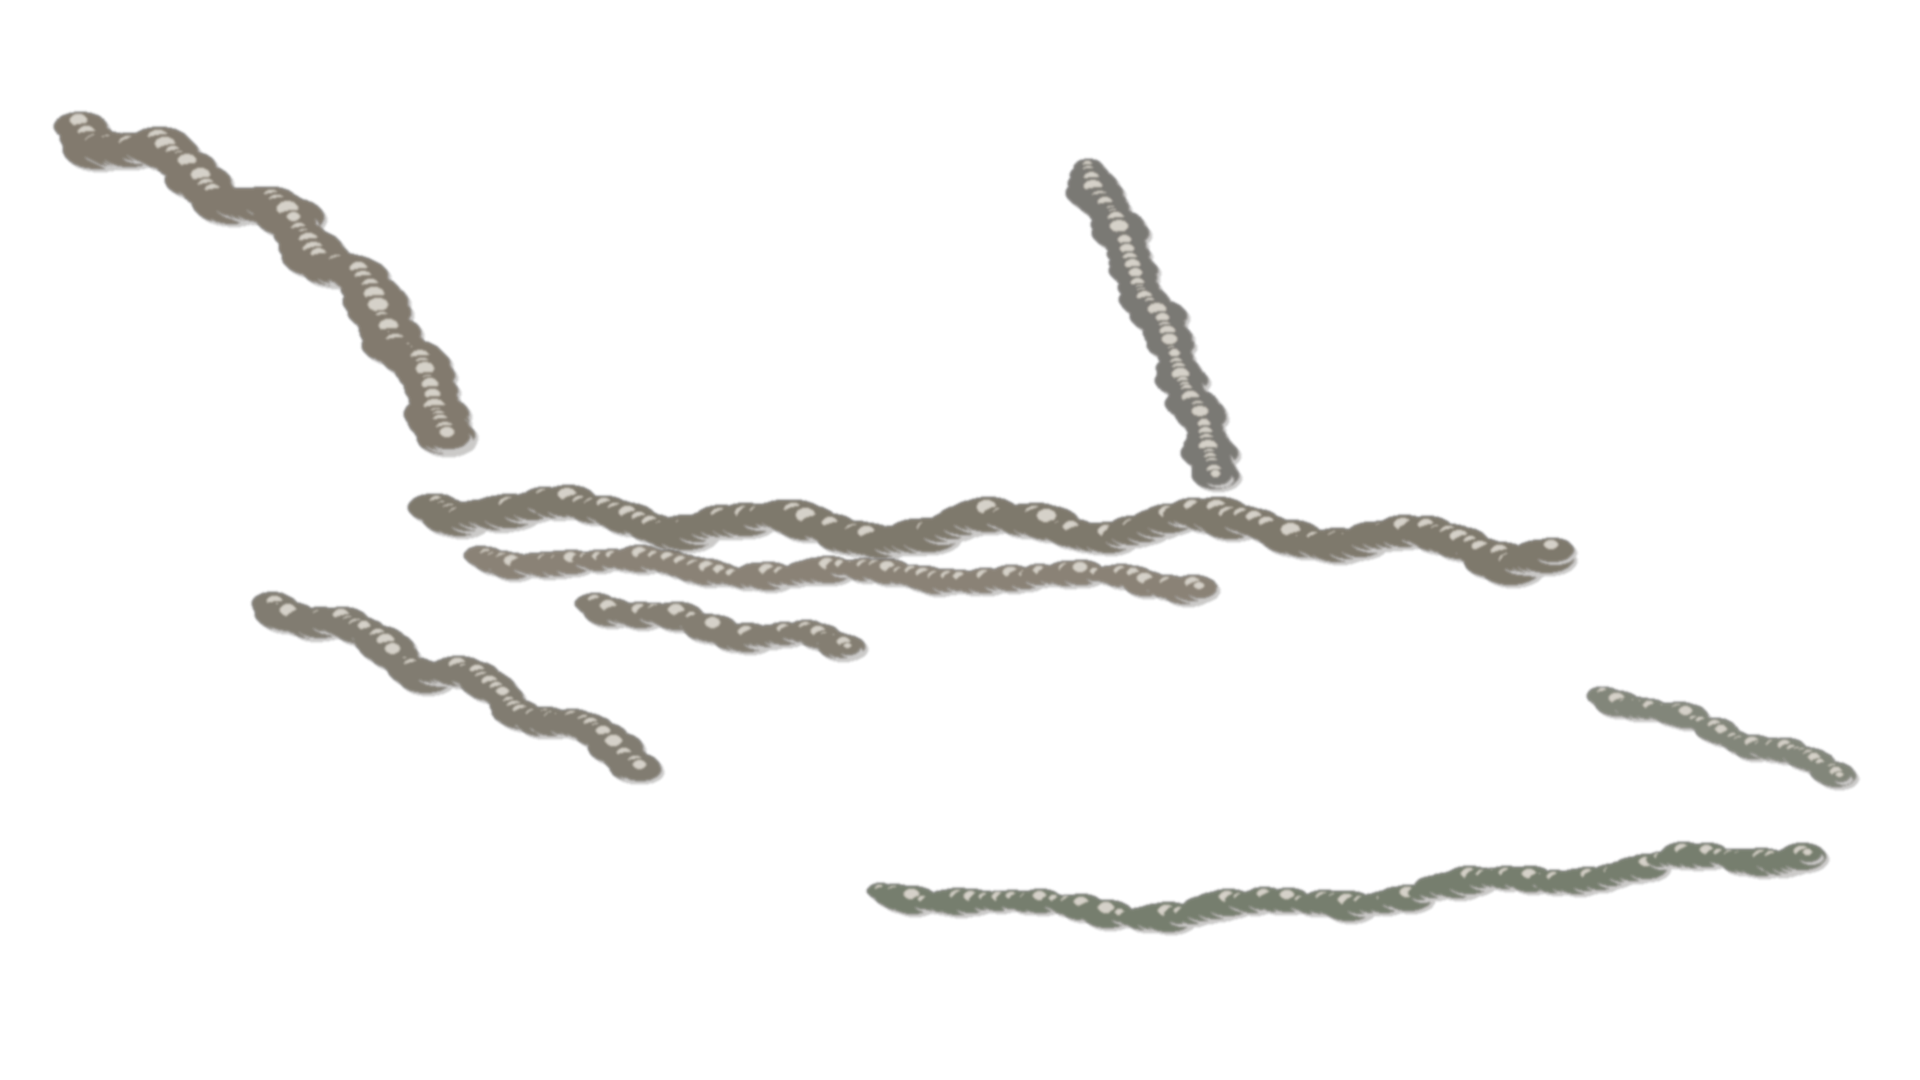
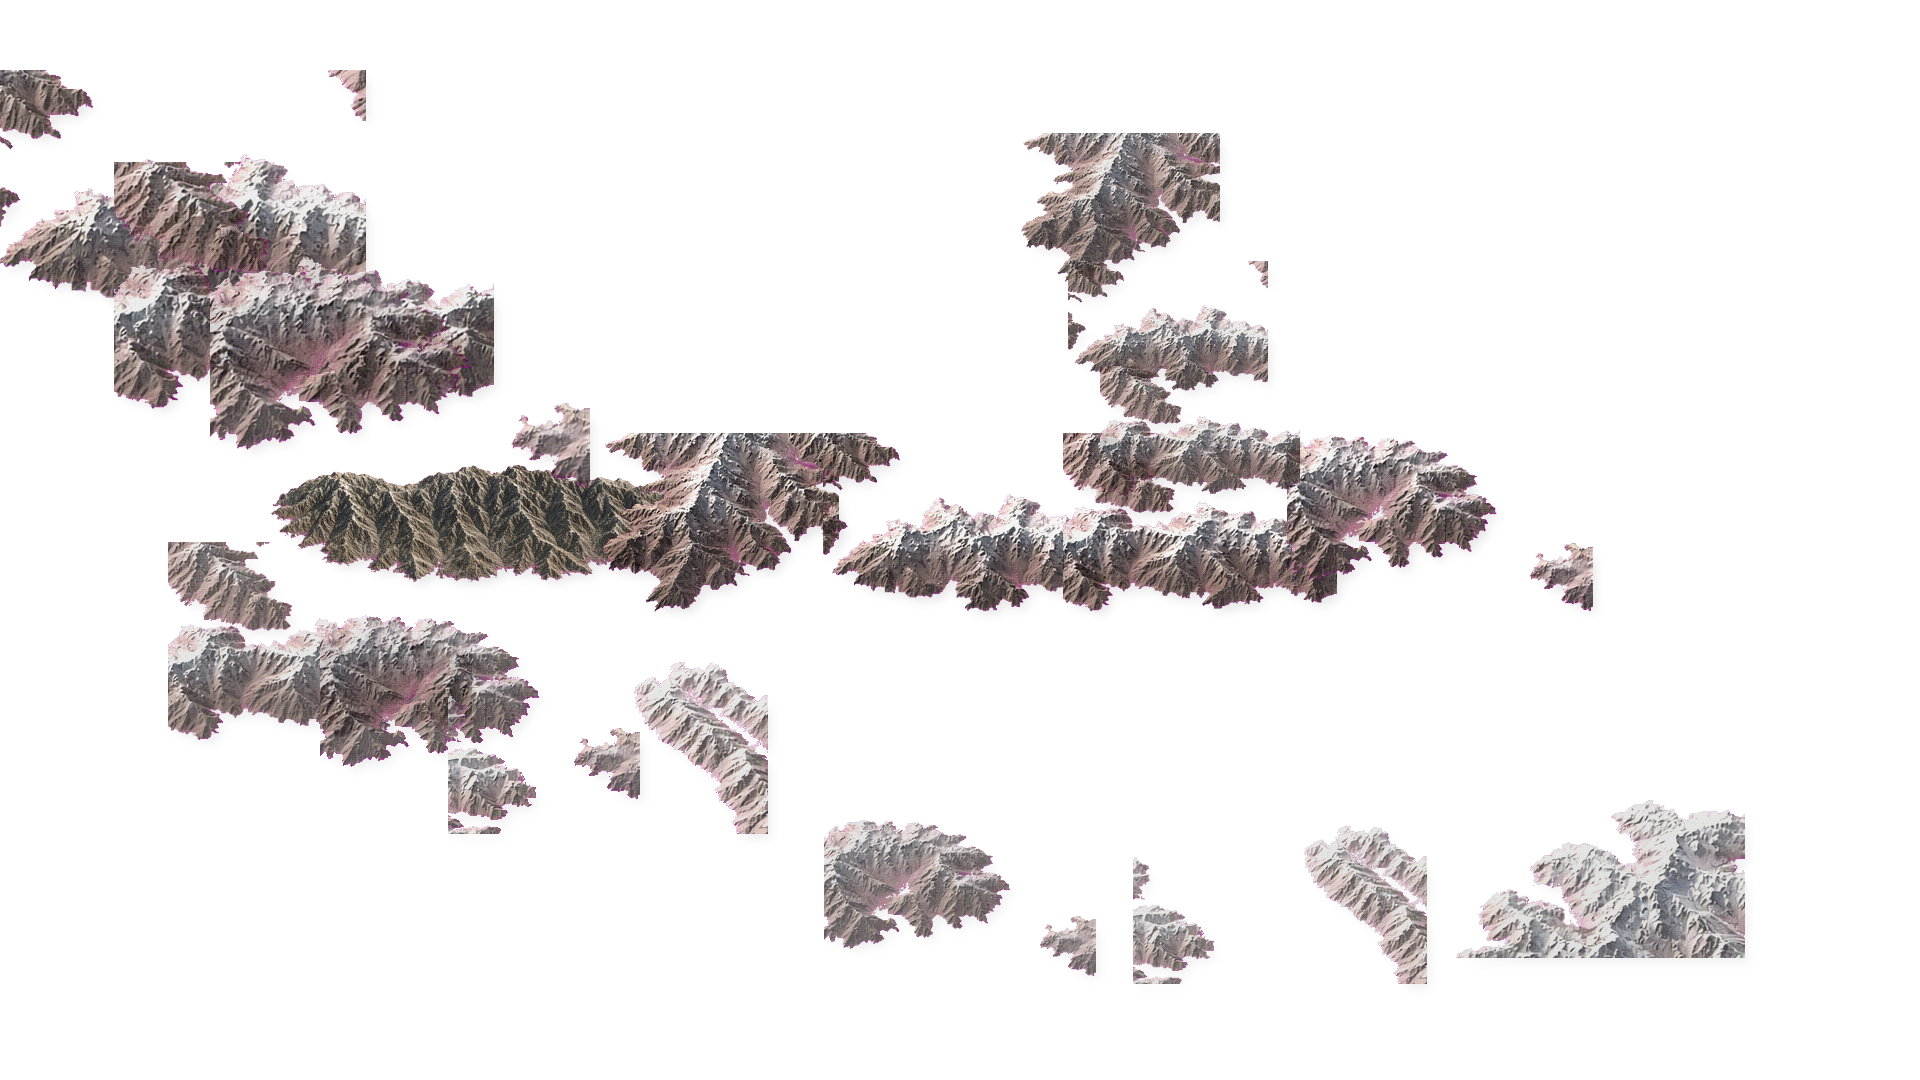
Replace mountain overlay with shaded-relief patches.
Stitch photo-real ridge highlights and contact shadows along the west, Qinling, Taihang, Sichuan rim, and Nanling belts. overlay_mountains.png is 1920x1080 RGBA (~1.33MB). Cities stay on g_CityPositions.

Changed region(s): [[0.0, 0.0611, 0.9688, 0.9167], [0.8125, 0.6417, 0.9688, 0.7333], [0.1562, 0.0611, 0.1875, 0.0917]]

diff --git a/docs/hd-overworld-spec.md b/docs/hd-overworld-spec.md
@@ -3,7 +3,7 @@
 本文是 **大地图（overworld）** 的产品与技术规格。它不是 CSS 2× 放大说明书——那一层见 [hd-graphics.md](hd-graphics.md)。  
 规格与实现路径仍不替换 `dat.lib`、不伪造游戏截图。几何占位可继续用于未接线的层。
 
-**素材现状（分支内）：** `assets/hd-overworld/` 地形是 **史实向地理包 v2**（见同目录 `GEOGRAPHY.md`）：西左北上，黄河/长江/淮河 + 渭水/汉水/湘水支流与洞庭/鄱阳示意湖，秦岭/太行/南岭分层，南林更密。与引擎城格相对方位对齐，**不是**经纬度 1:1。城标仍只读 `g_CityPositions`，不随底图挪动。其它层仍是 AI 占位。**不是**步步高原作美术。  
+**素材现状（分支内）：** `assets/hd-overworld/` 地形是 **史实向地理包 v2**（见同目录 `GEOGRAPHY.md`）：西左北上，黄河/长江/淮河 + 渭水/汉水/湘水支流与洞庭/鄱阳示意湖，南林更密。**山叠加**已换成沿西侧/秦岭/太行/四川缘/南岭放置的 shaded-relief 写真浮雕（脊线高光 + 接触阴影），不是平涂色块。与引擎城格相对方位对齐，**不是**经纬度 1:1。城标仍只读 `g_CityPositions`，不随底图挪动。其它层仍是 AI 占位。**不是**步步高原作美术。  
 **分支策略：本轨道只停在 `feature/hd-graphics`，在用户明确要求之前不要合入 `main`。**
 
 状态：产品方向已锁定；史实向地形已进本分支。**P0–P3 已在本分支落地（P2 partial）**：P1 城态/点选仍在；P2 在地形与城标之间画路网。邻接来自 `g_CityPositions` 的格邻接（Chebyshev≤1），不是引擎出征表。关隘只标在路中点压到河叠加处。缺口见 §8–§9 与 FEATURES.md。
@@ -266,7 +266,7 @@ P1 诚实缺口：
 
 P2 已实现：
 
-- 绘制顺序：地形（史实向地理包 v2：plains/mountains/rivers/forest，1920×1080，河山林更细）→ 路（5px 土色二次曲线）→ 城标/势力 → 城名 → 悬停/选中/入城闪（P3）。城点不随地形重绘移动
+- 绘制顺序：地形（史实向地理包 v2：plains + shaded-relief mountains + rivers + forest，1920×1080）→ 路（5px 土色二次曲线）→ 城标/势力 → 城名 → 悬停/选中/入城闪（P3）。城点不随地形重绘移动
 - 邻接优先读城对象 Exit/Link；没有则用 `adjacency.json` 里写死的边；再没有则运行时 Chebyshev≤1
 - 当前词典原版走第三条：`source=tile-neighbors`。`stroke.png`（64×16 土色）作 pattern，不行就纯色
 - 关隘：`pass.png` 只放在路中点压到河、且两端城不在河上的边上（过河）。山 overlay 误报太多，不单独标关

diff --git a/FEATURES.md b/FEATURES.md
@@ -101,7 +101,7 @@
 |------|------|------|
 | `classic` / `hd-map` 切换 | done | `localStorage['baye/overworldMode']`，默认 `classic`。首页下拉 + `pc.html` 画质条「经典地图 / HD 地图」 |
 | 1080p 容器 `#hd-overworld` | done | Canvas 2D，设计 1920×1080，窗口内 `contain`；DPR≤2 提高清 backing store |
-| 地形合成 | done | 史实向地理包 **v2**：黄河/长江/淮河 + 渭汉湘支流与洞庭/鄱阳示意湖，秦岭/太行/南岭分层，南林更密。西左北上，对齐引擎城格。仍不是经纬度 1:1。城标不挪。缺文件回退椭圆大陆 |
+| 地形合成 | done | 史实向地理包 **v2**：黄河/长江/淮河 + 渭汉湘支流与洞庭/鄱阳示意湖，南林更密。山叠加为西侧/秦岭/太行/四川缘/南岭的 shaded-relief 浮雕，不是平涂色块。西左北上，对齐引擎城格。仍不是经纬度 1:1。城标不挪。缺文件回退椭圆大陆 |
 | 城标四态 / 势力色 | done | empty / owned / neutral / selected 用 `cities/marker_*.png`；空城 Belong 0；己方 `Belong === g_PlayerKing+1`；他方按 `palette/factions.json` 色环 |
 | 城名标签 | done | `baye.getCityName(i)`，20px 暗底+描边，重叠时下移避让 |
 | 点击入城 | partial | 当前城读 `g_CityPos.setx/sety`。词典原版马腾已核验：西凉→安定、安定→天水均打开对应四项菜单（`tile-walk` RD）。写字段会进错城，已不用。无 `g_CityPos` 的 lib 回退邻接 BFS，未测 |

diff --git a/assets/hd-overworld/README.md b/assets/hd-overworld/README.md
@@ -1,6 +1,6 @@
 # HD Overworld 素材包
 
 - 用途：`feature/hd-graphics` 大地图表现层，**默认不合入 main**。
-- **地形**（`terrain/*.png`）：史实向地理包 **v2**（更细的河/山/林），见 `GEOGRAPHY.md`。1920×1080 RGBA。城标仍跟引擎格，不画死在底图上。
+- **地形**（`terrain/*.png`）：史实向地理包 **v2**（更细的河/林；山为 shaded-relief 浮雕），见 `GEOGRAPHY.md`。1920×1080 RGBA。城标仍跟引擎格，不画死在底图上。
 - 城标 / 路笔刷等其它层仍是 AI 占位，不是步步高原作美术。
 - 清单对齐 `docs/hd-overworld-spec.md` §10。

diff --git a/assets/hd-overworld/GEOGRAPHY.md b/assets/hd-overworld/GEOGRAPHY.md
@@ -19,5 +19,7 @@
 
 ## v2 精细化
 - 黄河/长江平滑曲线 + 渭水/汉水/湘水支流 + 洞庭/鄱阳示意湖
-- 秦岭主脉+南麓、太行、巴山、南岭、江东丘陵分层高光阴影
 - 林带：巴蜀缘/荆楚/岭南加密，江南北疏，河面处压低林层透明度
+
+## 山脉层（shaded relief）
+山叠加已换成 **带高光/接触阴影的写真浮雕补丁**，不再是平涂色块。沿西侧凉州带、秦岭、太行、四川盆地缘、南岭一带放置。
